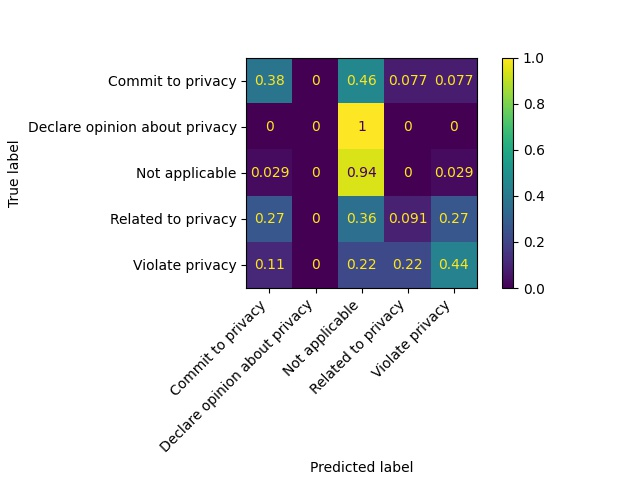
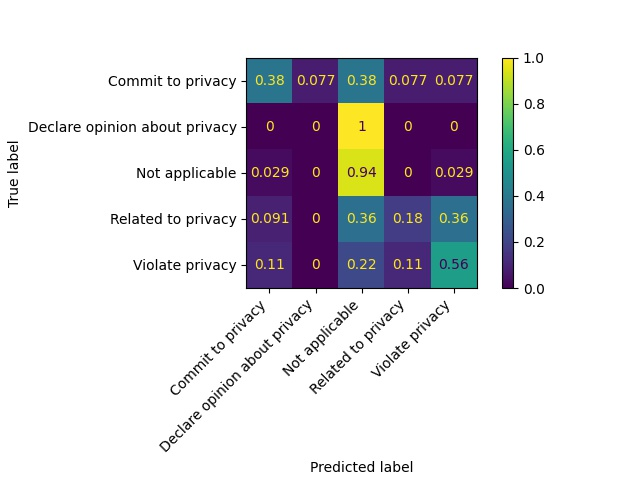
mixed dict complete, 1 or 0 word representation, good results!

diff --git a/AIclassifier.py b/AIclassifier.py
@@ -58,7 +58,7 @@ def format_sentVector_to_SparseMatrix(vectors_list, dictionary):
         for index, freq in counts.items():
             if len(counts.items()) > 0:
                 print(len(counts.items()), counts)
-                sparse_vector[index] = freq/len(sent_vector) # DIFFERENT CONFIGURATION POSSIBILITIES # 1
+                sparse_vector[index] = 1 #freq/len(sent_vector) # DIFFERENT CONFIGURATION POSSIBILITIES # 1
         if (i == 0): # TO DO: OPTIMIZE, NO NEED TO CHECK THIS EVERY TURN
             matrix_array = [sparse_vector]
         else:
